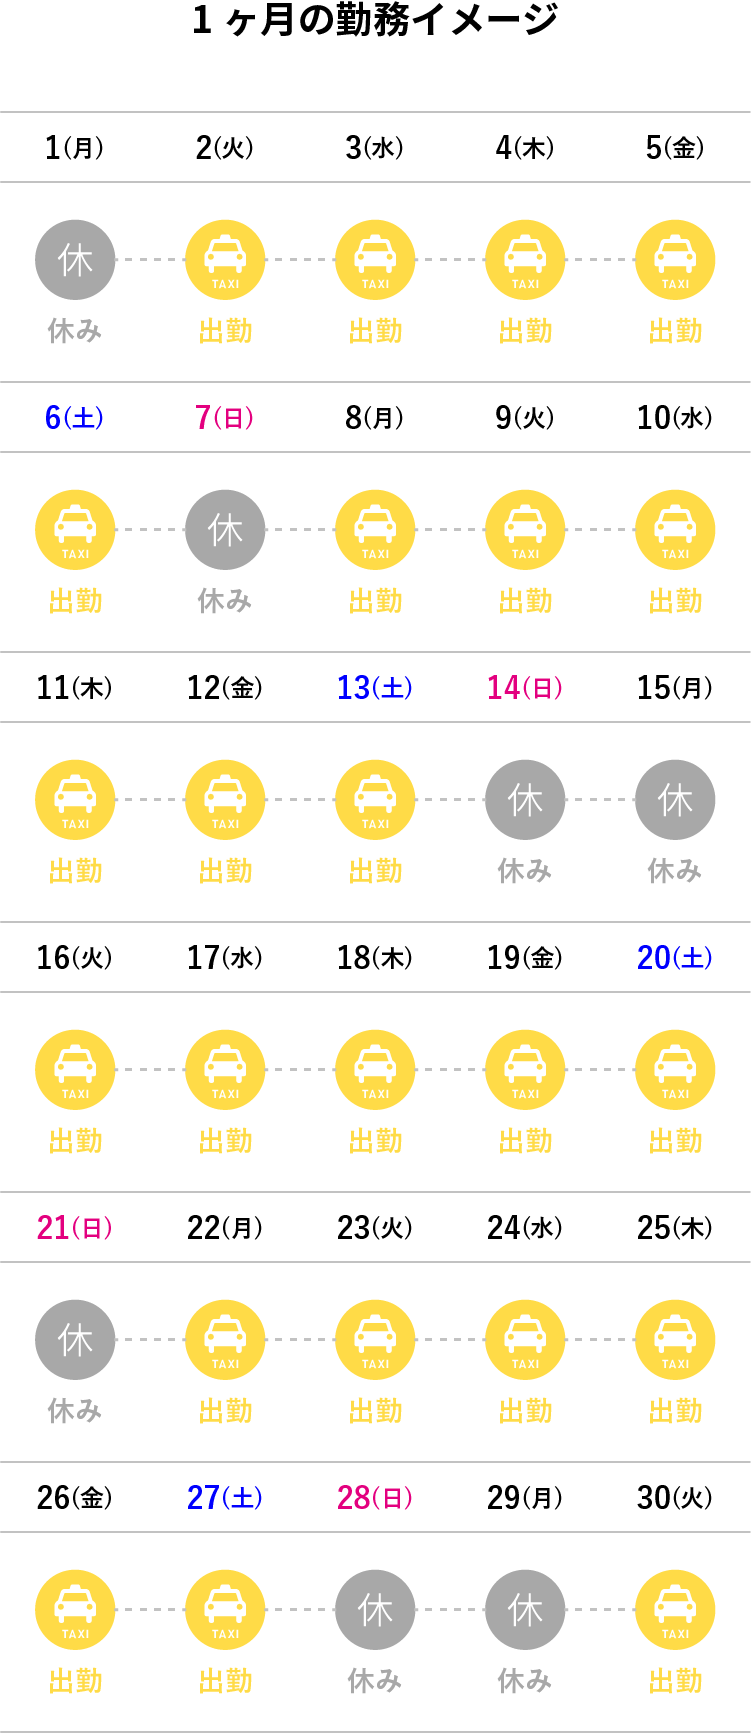
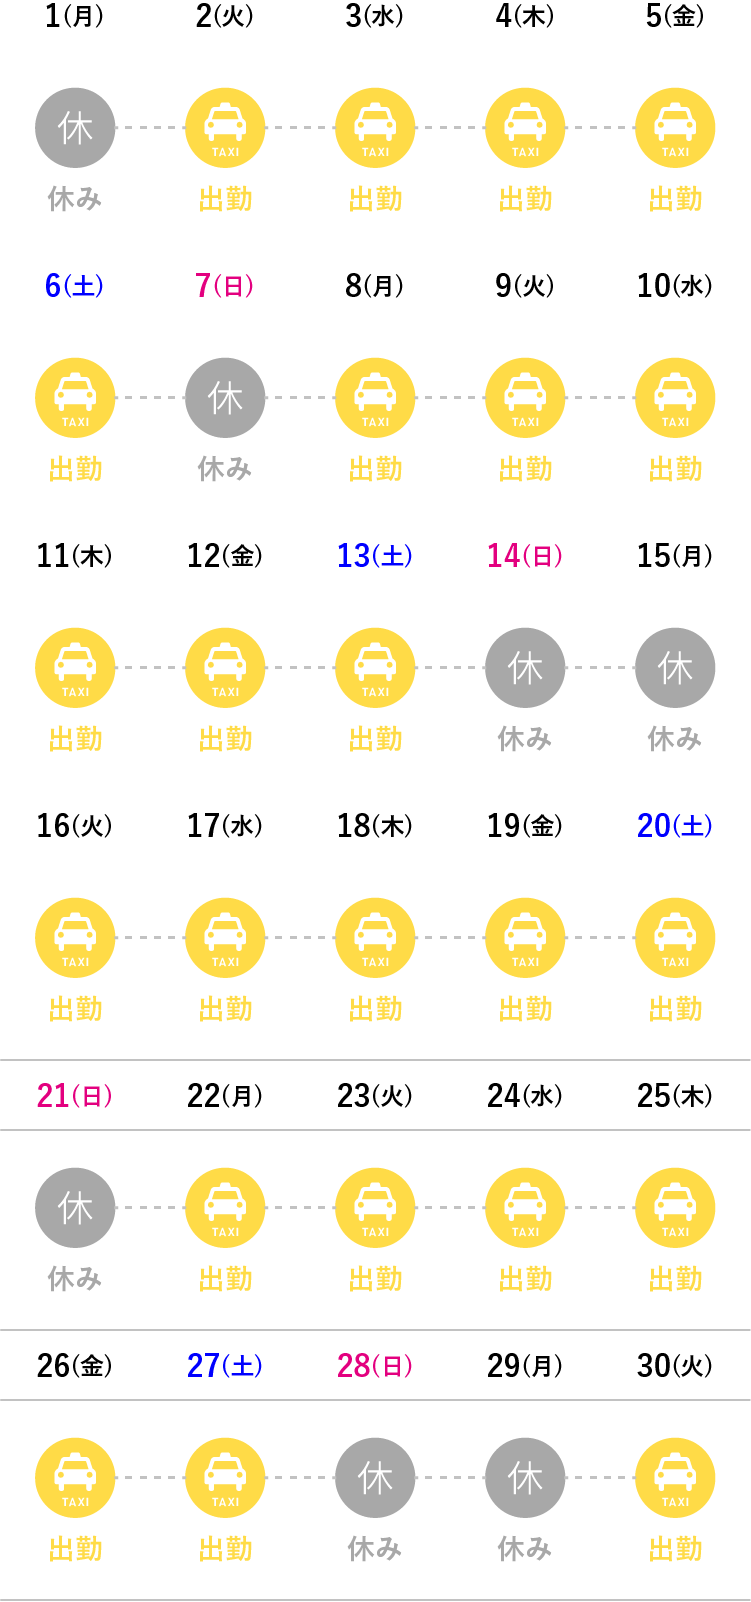
カレンダー幅：微調整

diff --git a/src/sass/object/project/_p-workStyle.scss b/src/sass/object/project/_p-workStyle.scss
@@ -29,6 +29,7 @@
 .p-workStyle__unit {
   position: relative;
   width: 100%;
+  min-height: rem(80);
   margin-left: auto;
 
   @include mq('md') {
@@ -53,20 +54,43 @@
 }
 
 .p-workStyle__unit+.p-workStyle__unit {
-  margin-top: rem(28);
+  margin-top: rem(9);
 
   @include mq('md') {
     margin-top: rem(43);
   }
 }
 
-.p-workStyle__unit:nth-of-type(3) {
-  margin-top: rem(-6);
-
-  @include mq('md') {
-    margin-top: rem(43);
-  }
+.p-workStyle__unit+.p-workStyle__unit.u-marginTop0 {
+  margin-top: rem(0);
 }
+
+.p-workStyle__units:nth-child(1) .p-workStyle__unit:nth-of-type(3) {
+  margin-top: rem(1);
+}
+
+// .p-workStyle__unit:nth-of-type(3) {
+//   margin-top: rem(-6);
+
+//   @include mq('md') {
+//     margin-top: rem(43);
+//   }
+// }
+
+// .p-workStyle__unit:nth-of-type(4) {
+//   margin-top: rem(10);
+
+//   @include mq('md') {
+//     margin-top: rem(43);
+//   }
+// }
+// p-workStyle__unit:nth-of-type(4) {
+//   margin-top: rem(29);
+
+//   @include mq('md') {
+//     margin-top: rem(43);
+//   }
+// }
 
 .p-workStyle__unit:nth-child(even) {
 

diff --git a/src/sass/object/layout/_l-workStyle.scss b/src/sass/object/layout/_l-workStyle.scss
@@ -9,7 +9,7 @@
 }
 
 .l-workStyle + .l-workStyle {
-  margin-top: rem(100);
+  margin-top: rem(90);
 
   @include mq('md') {
     margin-top: rem(150);
